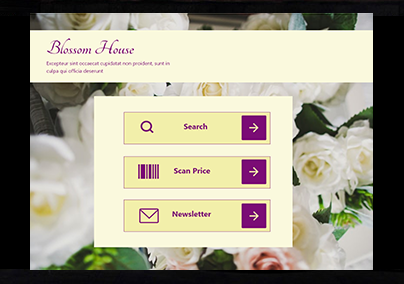
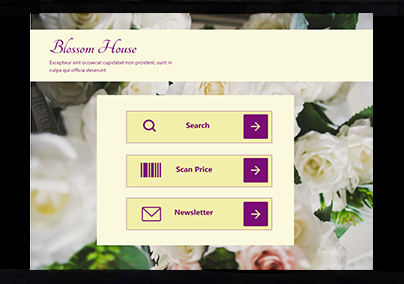
Tablet and Desktop versions

diff --git a/html5-boilerplate_v8.0.0/css/main.css b/html5-boilerplate_v8.0.0/css/main.css
@@ -224,7 +224,7 @@ header figure {
    #logo{
      align-self: flex-start;
      padding: 5px 0 0 10px;
-     width: 100%;
+     max-width: 50%;
    }
 
    .half-width {
@@ -742,6 +742,11 @@ span.hv{
 
   #email2{
     padding-bottom: 10px;
+    width: 100%;
+  }
+
+  #dove-trovarmi{
+    width: 100%;
   }
 
   #send-email{
@@ -1008,6 +1013,12 @@ width: 100%;
     text-align: center;
   }
 
+  /*Sit Conmigo*/
+  #nmg {
+    width: 100%;
+    text-align: center;
+  }
+
 /* ==========================================================================
    Helper classes
    ========================================================================== */
@@ -1101,6 +1112,15 @@ width: 100%;
        font-size:  8.375rem;
      }
 
+     #serv{
+       padding-bottom: 80px;
+     }
+
+     #pdr, #tit{
+       padding-top: 130px;
+       padding-bottom: 40px;
+     }
+
      .no-br br{
        display: none;
      }
@@ -1109,40 +1129,32 @@ width: 100%;
        width: 40%;
      }
 
-     #wrapper{
-       justify-content: flex-start;
-     }
+/*chi vui*/
+  header{
+    justify-content: flex-start;
+  }
 
-     #wrapper1{
+    #wrapper{
+       justify-content: flex-start;
        width: 50%;
      }
 
-     h1#left.normal{
-       display: flex;
+     #wrapper1, #wrapper2{
        justify-content: flex-start;
-     }
-
-     #box1{
-       justify-content: flex-start;
+       width: 100%;
      }
 
      #wrapper2{
-       justify-content: flex-start;
-       padding-bottom: 0;
-       width: 55%;
-     }
-
-     #title3{
-       align-self: flex-start;
-       padding-left: 80px;
-     }
-
-     #pdes{
-       padding-left: 45px;
+       margin-left: 40px;
+       padding: 0;
      }
 
      #wrp{
        visibility: hidden;
+     }
+
+     #title3{
+       margin-left: 30px;
      }
 
 /**main**/
@@ -1175,8 +1187,22 @@ width: 100%;
       width: 100%;
     }
 
+/*works*/
+    #slide-1, #slide-2{
+      max-height: 310px;
+      width: 45%;
+    }
+
+    #slide-2{
+    }
+
     .sld{
       width: 50%;
+    }
+
+    #slide-3{
+      margin-top: 20px;
+      width: 40%;
     }
 
 /*about*/
@@ -1194,18 +1220,6 @@ width: 100%;
   }
 
 /*email*/
-  #email2, #dove-trovarmi{
-    width: 100%;
-  }
-
-  .fa-linkedin{
-    padding-left:
-  }
-
-  .fa-github-square{
-    padding-right:
-  }
-
   #tch{
     order: 2;
     width: 50%;
@@ -1217,6 +1231,53 @@ width: 100%;
   }
 
    }
+
+   /***************DESKTOP***********/
+   @media only screen and (min-width: 1200px) {
+
+     #wrapper {
+       width: 30%;
+    }
+
+    #slide-1, #slide-2, #slide-3{
+      width: 30%;
+    }
+
+    #slide-3{
+      margin-top: 5px;
+      min-height: 310px;
+    }
+
+    .text{
+      width: 60%;
+    }
+
+    #mia-foto{
+      width: 30%;
+    }
+
+    #tch{
+      order: 1;
+      width: 30%;
+    }
+
+    #other-contact{
+      display: flex;
+      justify-content: space-around;
+      width: 100%;
+    }
+
+    #oc{
+      order: 2;
+      width: 30%;
+    }
+
+    #social{
+      order: 3;
+      width: 30%;
+    }
+
+}
 
 
 

diff --git a/html5-boilerplate_v8.0.0/index.html b/html5-boilerplate_v8.0.0/index.html
@@ -152,32 +152,33 @@
       <!--/*-SLIDESHOW-*-->
       <div class="slider">
 
-        <a href="design/index.html">
+
           <div id="slide-1" class="sld grad">
+            <a href="design/index.html">
             <h2 class="margin"><span>Design</span></h2>
             <p>Layout & Navigation, Mobile First, Wireframing, Grids, Color & Typography, Look & Feel, UX/UI, Sitemaps,
               Web Graphics, Adobe XD, Photoshop, Illustrator, Figma</p>
               <i class="fas fa-arrow-right"></i>
+                </a>
           </div>
-        </a>
 
-
-        <a href="development/index.html">
           <div id="slide-2" class="sld grad">
+            <a href="development/index.html">
             <h2 class="margin"><span>Development</span></h2>
             <p>HTML, HTML5, CSS, Domains, Web Hosting, FTP, Version Control, Command Line, Local and Remote Repositories,
             Responsive Typography, Flexbox, Media Queries & Standard Breakpoints</p>
             <i class="fas fa-arrow-right"></i>
+            </a>
           </div>
-        </a>
-
-        <a href="illustrations/index.html">
+        
           <div id="slide-3" class="sld grad">
+            <a href="illustrations/index.html">
             <h2 class="margin"><span>Illustrations</span></h2>
             <p>Gimp, Illustrator, Photoshop, Wacom XP-Pen Artist</p>
             <i class="fas fa-arrow-right"></i>
+            </a>
           </div>
-        </a>
+
 
       <!--  <div id="dots">
           <a href="#slide-1" class="dot1"></a>

diff --git a/html5-boilerplate_v8.0.0/design/index.html b/html5-boilerplate_v8.0.0/design/index.html
@@ -241,7 +241,7 @@
             <div id="oc">
               <p id=email2>Email me at:<br></p>
               <button class="grad sm-btn" id="send-email"><a href = "mailto: chiara.vuillermoz@libero.it">chiara.vuillermoz@libero.it</a></button>
-              <p>you can also find me here:</p>
+              <p id="dove-trovarmi">you can also find me here:</p>
             </div>
 
              <div id=social>

diff --git a/html5-boilerplate_v8.0.0/development/index.html b/html5-boilerplate_v8.0.0/development/index.html
@@ -238,7 +238,7 @@
             <div id="oc">
               <p id=email2>Email me at:<br></p>
               <button class="grad sm-btn" id="send-email"><a href = "mailto: chiara.vuillermoz@libero.it">chiara.vuillermoz@libero.it</a></button>
-              <p>you can also find me here:</p>
+              <p id="dove-trovarmi">you can also find me here:</p>
             </div>
 
              <div id=social>

diff --git a/html5-boilerplate_v8.0.0/illustrations/index.html b/html5-boilerplate_v8.0.0/illustrations/index.html
@@ -169,7 +169,7 @@
             <div id="oc">
               <p id=email2>Email me at:<br></p>
               <button class="grad sm-btn" id="send-email"><a href = "mailto: chiara.vuillermoz@libero.it">chiara.vuillermoz@libero.it</a></button>
-              <p>you can also find me here:</p>
+              <p id="dove-trovarmi">you can also find me here:</p>
             </div>
 
              <div id=social>

diff --git a/html5-boilerplate_v8.0.0/authentic-amalfi-coast/index.html b/html5-boilerplate_v8.0.0/authentic-amalfi-coast/index.html
@@ -218,7 +218,7 @@
           <div id="oc">
             <p id=email2>Email me at:<br></p>
             <button class="grad sm-btn" id="send-email"><a href = "mailto: chiara.vuillermoz@libero.it">chiara.vuillermoz@libero.it</a></button>
-            <p>you can also find me here:</p>
+            <p id="dove-trovarmi">you can also find me here:</p>
           </div>
 
            <div id=social>

diff --git a/html5-boilerplate_v8.0.0/blossom-house/index.html b/html5-boilerplate_v8.0.0/blossom-house/index.html
@@ -287,7 +287,7 @@
           <div id="oc">
             <p id=email2>Email me at:<br></p>
             <button class="grad sm-btn" id="send-email"><a href = "mailto: chiara.vuillermoz@libero.it">chiara.vuillermoz@libero.it</a></button>
-            <p>you can also find me here:</p>
+            <p id="dove-trovarmi">you can also find me here:</p>
           </div>
 
            <div id=social>

diff --git a/html5-boilerplate_v8.0.0/pcup/index.html b/html5-boilerplate_v8.0.0/pcup/index.html
@@ -145,7 +145,7 @@
           <div id="oc">
             <p id=email2>Email me at:<br></p>
             <button class="grad sm-btn" id="send-email"><a href = "mailto: chiara.vuillermoz@libero.it">chiara.vuillermoz@libero.it</a></button>
-            <p>you can also find me here:</p>
+            <p id="dove-trovarmi">you can also find me here:</p>
           </div>
 
            <div id=social>

diff --git a/html5-boilerplate_v8.0.0/sitconmigo/index.html b/html5-boilerplate_v8.0.0/sitconmigo/index.html
@@ -137,7 +137,7 @@
           <div id="oc">
             <p id=email2>Email me at:<br></p>
             <button class="grad sm-btn" id="send-email"><a href = "mailto: chiara.vuillermoz@libero.it">chiara.vuillermoz@libero.it</a></button>
-            <p>you can also find me here:</p>
+            <p id="dove-trovarmi">you can also find me here:</p>
           </div>
 
            <div id=social>
